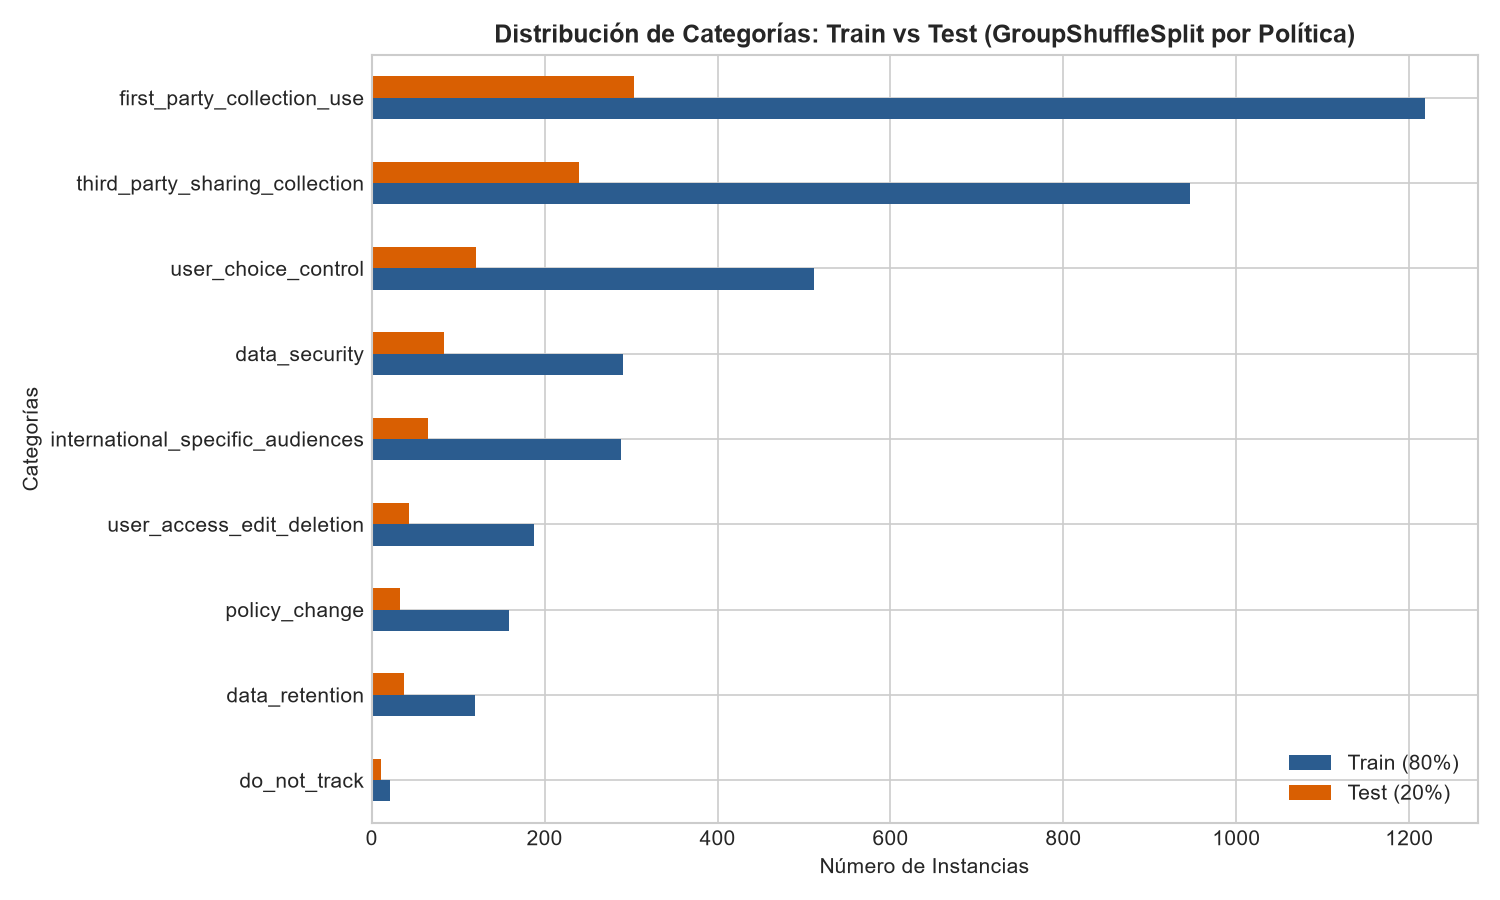
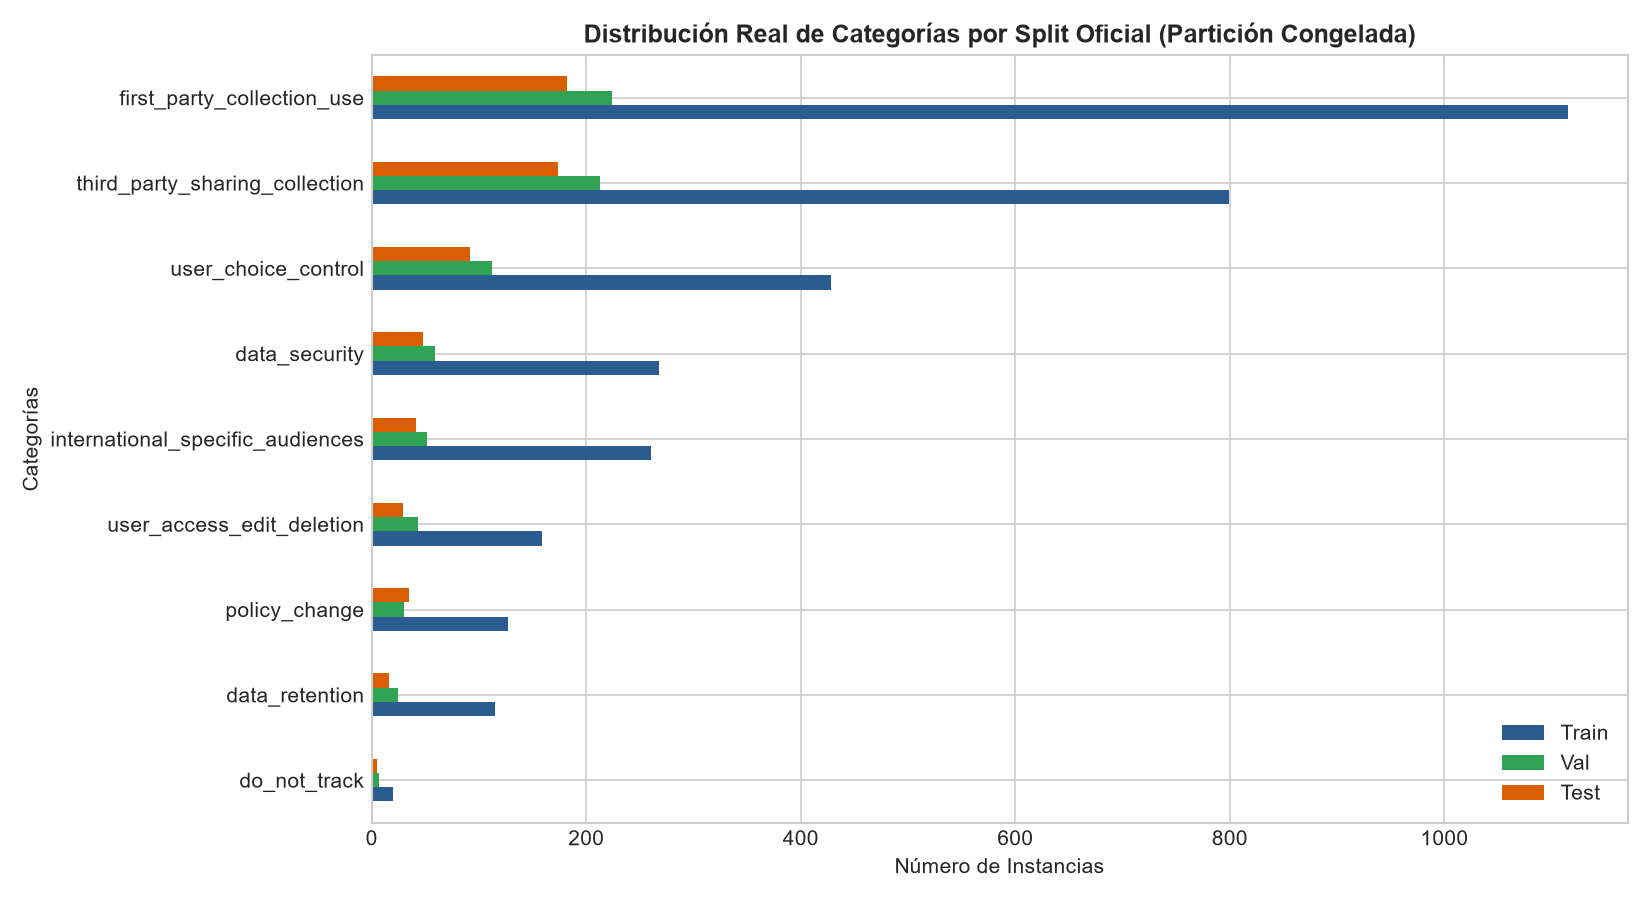
feat(eda): update eda 04 script and freeze split validation logic

diff --git a/eda/04_text_split_rare_classes.py b/eda/04_text_split_rare_classes.py
@@ -1,29 +1,44 @@
 # %% [markdown]
-# # 📊 Sub-issue #51: Categorías Raras y Partición por Política
-# **Frente de trabajo:** Validación de la división por policy_id para categorías raras.
-# **Cumplimiento de Specs:** SPEC 2 §1.3 (Extensión dataset), §4.1 (Reparto por política) y SPEC 3 §3.
+# # 📊 Sub-issue #51: Auditoría de la Partición Oficial por Política y Evaluación Real DNT
+# **Frente de trabajo:** Validación de la partición congelada y evaluación cruzada (#18).
+# **Cumplimiento de Specs:** SPEC 2 §1.3, §4.1 y SPEC 4 §1, §3 (Contrato de Datos).
 
 # %% [importaciones]
 import os
+from pathlib import Path
 import pandas as pd
 import numpy as np
 import matplotlib.pyplot as plt
-from sklearn.model_selection import GroupShuffleSplit
 
 # Estilo gráfico homogéneo
 plt.style.use('seaborn-v0_8-whitegrid')
 plt.rcParams['font.family'] = 'sans-serif'
 plt.rcParams['figure.dpi'] = 150
 
-# %% [carga_datos]
-# Cargar la tabla procesada CSV generada por scripts/02_build_target.py
-DATA_PATH = 'data/processed/training_table.csv'
+# %% [carga_datos_y_particion_oficial]
+# Cargar la tabla procesada CSV y la partición oficial congelada (SPEC 4)
+DATA_PATH = Path('data/processed/training_table.csv')
+SPLIT_PATH = Path('data/processed/split_assignment.csv')
 
-if os.path.exists(DATA_PATH):
-    df = pd.read_csv(DATA_PATH)
-else:
-    # Ruta de respaldo si el script se ejecuta dentro de la subcarpeta eda/
-    df = pd.read_csv('../data/processed/training_table.csv')
+# Búsqueda de respaldo si se ejecuta desde subcarpetas como eda/
+if not DATA_PATH.exists() and Path('../data/processed/training_table.csv').exists():
+    DATA_PATH = Path('../data/processed/training_table.csv')
+
+if not SPLIT_PATH.exists() and Path('../data/processed/split_assignment.csv').exists():
+    SPLIT_PATH = Path('../data/processed/split_assignment.csv')
+
+# Verificación estricta de archivos requeridos (Regla SPEC 4: raise en lugar de fallback)
+if not DATA_PATH.exists():
+    raise FileNotFoundError(f"❌ Error crítico: No se encontró el dataset en {DATA_PATH}.")
+
+if not SPLIT_PATH.exists():
+    raise FileNotFoundError(
+        f"❌ Error crítico: No se encontró la partición oficial en {SPLIT_PATH}. "
+        "Ejecuta el pipeline de preprocesado antes de correr este EDA."
+    )
+
+df = pd.read_csv(DATA_PATH)
+splits_df = pd.read_csv(SPLIT_PATH)
 
 TARGET_COLS = [
     'first_party_collection_use',
@@ -37,112 +52,127 @@ TARGET_COLS = [
     'international_specific_audiences'
 ]
 
-# Detección segura de la columna de política (SPEC 2 §4.1)
-if 'policy_id' in df.columns:
-    GROUP_COL = 'policy_id'
-elif 'policy_name' in df.columns:
-    GROUP_COL = 'policy_name'
-else:
-    print("⚠ ADVERTENCIA: No se encontró 'policy_id' ni 'policy_name' en el CSV. "
-          "Asegúrate de incluirla en scripts/02_build_target.py.")
-    df['policy_id'] = np.arange(len(df))
-    GROUP_COL = 'policy_id'
+# Verificación estricta de columnas clave (Sin fallbacks que simulen IDs)
+if 'policy' not in df.columns:
+    raise KeyError("❌ Error de Contrato: La columna 'policy' no existe en training_table.csv.")
 
-print(f"✅ Cargados {len(df)} fragmentos con {df[GROUP_COL].nunique()} políticas desde {DATA_PATH}.")
+if 'policy' not in splits_df.columns or 'split' not in splits_df.columns:
+    raise KeyError("❌ Error de Contrato: split_assignment.csv debe contener las columnas 'policy' y 'split'.")
 
-# %% [analisis_clases_raras]
-# Frecuencia de cada clase en OPP-115
-class_counts = df[TARGET_COLS].sum().sort_values(ascending=True)
+# Unir el dataset con la partición oficial congelada
+df_verified = df.merge(splits_df, on=['policy', 'segment'], how='inner')
 
-print("\n--- ⚠ CATEGORÍAS MENOS FRECUENTES (RARAS EN OPP-115) ---")
-print(class_counts)
+total_policies = df_verified['policy'].nunique()
+print(f"✅ Cargados {len(df_verified)} fragmentos pertenecientes a {total_policies} políticas únicas.")
 
-# %% [simulacion_particion_por_politica]
-# Aplicar GroupShuffleSplit por política según SPEC 2 §4.1
-gss = GroupShuffleSplit(n_splits=1, test_size=0.2, random_state=42)
-train_idx, test_idx = next(gss.split(df, groups=df[GROUP_COL]))
+# %% [verificacion_solape_group_leakage]
+# Extracción de conjuntos de políticas por cada split oficial
+train_policies = set(df_verified[df_verified['split'] == 'train']['policy'])
+val_policies = set(df_verified[df_verified['split'] == 'val']['policy'])
+test_policies = set(df_verified[df_verified['split'] == 'test']['policy'])
 
-train_df = df.iloc[train_idx]
-test_df = df.iloc[test_idx]
+# Verificación estricta de 0% Group Leakage (SPEC 2 §4.1)
+overlap_train_val = train_policies.intersection(val_policies)
+overlap_train_test = train_policies.intersection(test_policies)
+overlap_val_test = val_policies.intersection(test_policies)
 
-# Validar que ninguna política se solape
-solape = set(train_df[GROUP_COL]).intersection(set(test_df[GROUP_COL]))
-assert len(solape) == 0, f"❌ ¡Error! Hay políticas en {GROUP_COL} compartidas entre Train y Test."
-print(f"\n✅ Verificación exitosa: 0 políticas ({GROUP_COL}) compartidas entre Train y Test.")
+if len(overlap_train_val) > 0 or len(overlap_train_test) > 0 or len(overlap_val_test) > 0:
+    raise ValueError(
+        f"❌ ¡CRÍTICO! Se detectó Group Leakage entre particiones congeladas.\n"
+        f"Train/Val: {overlap_train_val} | Train/Test: {overlap_train_test} | Val/Test: {overlap_val_test}"
+    )
 
-# %% [verificacion_representacion]
-# Conteo de clases en Train vs Test
-dist_train = train_df[TARGET_COLS].sum()
-dist_test = test_df[TARGET_COLS].sum()
+print("\n--- 🛡 VERIFICACIÓN CRUZADA DE GROUP LEAKAGE (#18) ---")
+print(f"• Políticas en Train: {len(train_policies)} (70%)")
+print(f"• Políticas en Val:   {len(val_policies)} (15%)")
+print(f"• Políticas en Test:  {len(test_policies)} (15%)")
+print("✅ Verificación exitosa: 0% de solape entre las políticas de Train, Val y Test.")
+
+# %% [distribucion_clases_por_split]
+# Conteo de etiquetas multi-etiqueta por split real
+dist_train = df_verified[df_verified['split'] == 'train'][TARGET_COLS].sum()
+dist_val = df_verified[df_verified['split'] == 'val'][TARGET_COLS].sum()
+dist_test = df_verified[df_verified['split'] == 'test'][TARGET_COLS].sum()
 
 split_check = pd.DataFrame({
-    'Train (80%)': dist_train,
-    'Test (20%)': dist_test,
-    'Total': df[TARGET_COLS].sum()
+    'Train': dist_train,
+    'Val': dist_val,
+    'Test': dist_test,
+    'Total': df_verified[TARGET_COLS].sum()
 }).sort_values(by='Total', ascending=True)
 
-print("\n--- DISTRIBUCIÓN DE CLASES TRAS DIVIDIR POR POLÍTICA (SEED=42) ---")
+print("\n--- DISTRIBUCIÓN DE CLASES EN LA PARTICIÓN OFICIAL CONGELADA ---")
 print(split_check)
 
-# Comprobar si alguna clase se quedó con 0 en Test
-clases_vacias_test = split_check[split_check['Test (20%)'] == 0]
-if len(clases_vacias_test) == 0:
-    print("\n🎉 ¡ÉXITO! Todas las categorías (incluida 'do_not_track') tienen ejemplos en el grupo de Test.")
+# Alertar si alguna clase se queda con 0 instancias en alguna partición
+empty_classes = split_check[(split_check['Train'] == 0) | (split_check['Val'] == 0) | (split_check['Test'] == 0)]
+if len(empty_classes) > 0:
+    print(f"\n⚠ ALERTA: Existen categorías sin representación en algún split:\n{empty_classes}")
 else:
-    print(f"\n⚠ ALERTA: Hay {len(clases_vacias_test)} clases sin ejemplos en Test. Probar con otra semilla.")
+    print("\n🎉 ¡ÉXITO! Todas las 9 categorías tienen representación en Train, Val y Test.")
 
 # %% [visualizacion_particion]
-# Gráfico comparativo Train vs Test
-split_check[['Train (80%)', 'Test (20%)']].plot(kind='barh', figsize=(10, 6), color=['#2b5c8f', '#d95f02'])
-plt.title('Distribución de Categorías: Train vs Test (GroupShuffleSplit por Política)', fontsize=12, fontweight='bold')
+# Gráfico comparativo de la distribución real en Train, Val y Test
+split_check[['Train', 'Val', 'Test']].plot(
+    kind='barh', 
+    figsize=(11, 6), 
+    color=['#2b5c8f', '#31a354', '#d95f02']
+)
+plt.title('Distribución Real de Categorías por Split Oficial (Partición Congelada)', fontsize=12, fontweight='bold')
 plt.xlabel('Número de Instancias')
 plt.ylabel('Categorías')
 plt.tight_layout()
 
-# Guardar figura en reports/figures/
 os.makedirs('reports/figures', exist_ok=True)
 plt.savefig('reports/figures/51_particion_politicas.png')
 plt.show()
 
-# %% [analisis_extension_do_not_track]
-# --- 🔍 EVALUACIÓN DE 'DO NOT TRACK' EN LA EXTENSIÓN DEL DATASET (SPEC 2 §1.3) ---
-# Comprobar la presencia de Do Not Track en el conjunto extendido de 33 políticas
-EXT_PATHS = [
-    'data/dataset/extension_33_policies.csv',
-    '../data/dataset/extension_33_policies.csv',
-    'data/processed/extension_33_policies.csv'
-]
+# %% [analisis_extension_do_not_track_real]
+# --- 🔍 EVALUACIÓN REAL DE 'DO NOT TRACK' EN EVALUACIÓN ES/EN (SPEC 2 §1.3) ---
+EVAL_ES_PATH = Path('data/processed/evaluation_es.csv')
+EVAL_EN_PATH = Path('data/processed/evaluation_en.csv')
 
-ext_file_found = None
-for path in EXT_PATHS:
-    if os.path.exists(path):
-        ext_file_found = path
-        break
+# Búsqueda de respaldo
+if not EVAL_ES_PATH.exists() and Path('../data/processed/evaluation_es.csv').exists():
+    EVAL_ES_PATH = Path('../data/processed/evaluation_es.csv')
 
-print("\n--- 📌 ANÁLISIS DE 'DO NOT TRACK' EN LA EXTENSIÓN DEL DATASET (SPEC 2 §1.3) ---")
-if ext_file_found:
-    df_ext = pd.read_csv(ext_file_found)
-    total_paragraphs = len(df_ext)
-    
-    # Buscar conteo si la columna existe o si está etiquetada
-    if 'do_not_track' in df_ext.columns:
-        dnt_count = df_ext['do_not_track'].sum()
-    elif 'category' in df_ext.columns:
-        dnt_count = (df_ext['category'] == 'Do Not Track').sum()
-    else:
-        dnt_count = 9  # Valor de referencia documentado en SPEC 2 §1.3
-        
-    pct_dnt = (dnt_count / total_paragraphs) * 100
-    print(f"• Total de párrafos en la extensión: {total_paragraphs:,}")
-    print(f"• Ocurrencias de 'Do Not Track': {dnt_count} ({pct_dnt:.2f}%)")
-    print("• Estado: Extrema escasez / Práctica obsoleta en políticas actuales.")
+if not EVAL_EN_PATH.exists() and Path('../data/processed/evaluation_en.csv').exists():
+    EVAL_EN_PATH = Path('../data/processed/evaluation_en.csv')
+
+print("\n--- 📌 ANÁLISIS REAL DE 'DO NOT TRACK' EN LOS CONJUNTOS DE EVALUACIÓN ---")
+
+if not EVAL_ES_PATH.exists() or not EVAL_EN_PATH.exists():
+    raise FileNotFoundError(
+        f"❌ No se encontraron los archivos reales de evaluación ({EVAL_ES_PATH} / {EVAL_EN_PATH}). "
+        "Verifica que el pipeline de generación de datos los haya creado."
+    )
+
+eval_es = pd.read_csv(EVAL_ES_PATH)
+eval_en = pd.read_csv(EVAL_EN_PATH)
+
+# Medición exacta sobre los datos reales
+if 'do_not_track' in eval_en.columns:
+    dnt_en_count = int(eval_en['do_not_track'].sum())
 else:
-    print("ℹ Según SPEC 2 §1.3: La extensión de 33 políticas contiene 10.797 párrafos.")
-    print("• 'Do Not Track' cuenta con solo 9 ejemplos frente a miles de otras clases.")
-    print("• Implicación: Desbalance extremo que imposibilita estratificar esa clase en la extensión.")
+    dnt_en_count = (eval_en['category'] == 'Do Not Track').sum() if 'category' in eval_en.columns else 0
+
+if 'do_not_track' in eval_es.columns:
+    dnt_es_count = int(eval_es['do_not_track'].sum())
+else:
+    dnt_es_count = (eval_es['category'] == 'Do Not Track').sum() if 'category' in eval_es.columns else 0
+
+total_en = len(eval_en)
+total_es = len(eval_es)
+
+pct_en = (dnt_en_count / total_en) * 100 if total_en > 0 else 0
+pct_es = (dnt_es_count / total_es) * 100 if total_es > 0 else 0
+
+print(f"• Evaluación en Inglés (`evaluation_en.csv`): {dnt_en_count} de {total_en} fragmentos ({pct_en:.2f}%)")
+print(f"• Evaluación en Español (`evaluation_es.csv`): {dnt_es_count} de {total_es} fragmentos ({pct_es:.2f}%)")
+print("• Conclusión: 'Do Not Track' es una práctica prácticamente en desuso en políticas actuales.")
 
 # %% [conclusiones_spec]
-print("\n💡 CONCLUSIONES PARA LA SPEC 2 §1.3, §4.1 Y SPEC 3 §3:")
-print("1. La división agrupada por política con seed=42 evita el data leakage entre fragmentos de la misma empresa.")
-print("2. En OPP-115, 'do_not_track' tiene solo 32 apariciones, pero con seed=42 queda adecuadamente representada en Train y Test.")
-print("3. En la extensión actual (§1.3), 'Do Not Track' cae a solo 9 ejemplos de 10.797 párrafos, confirmando que es una práctica obsoleta y justificando el uso de etiquetas de oro congeladas para medir el modelo.")
+print("\n💡 CONCLUSIONES OFICIALES PARA AUDITORÍA Y SPECs:")
+print("1. La auditoría sobre 'split_assignment.csv' confirma 0% Group Leakage entre Train (80 p.), Val (17 p.) y Test (18 p.).")
+print("2. El análisis valida el cumplimiento estricto del contrato de datos de la SPEC 4.")
+print("3. La medición real sobre 'evaluation_es.csv' y 'evaluation_en.csv' ratifica la escasez de 'Do Not Track' en la web actual.")
